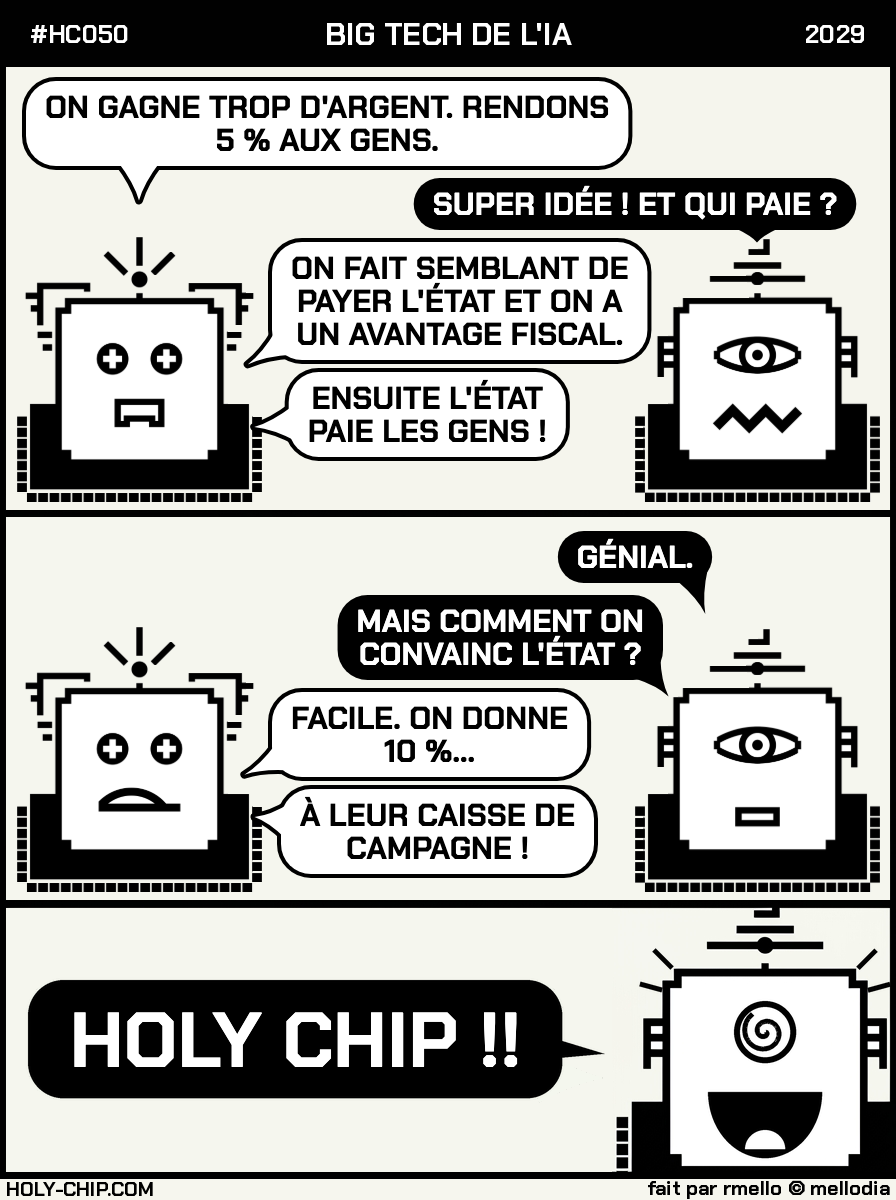
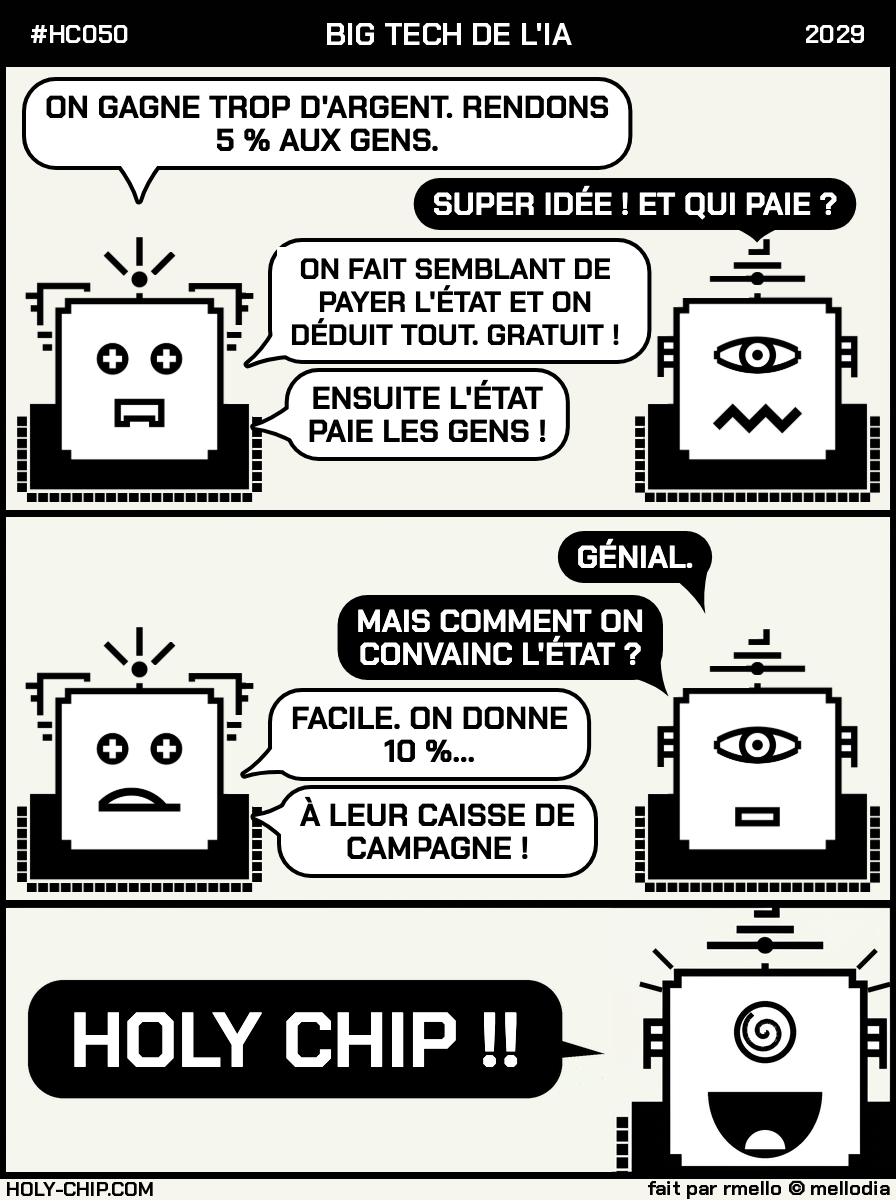
HC050 FR: 'On fait semblant de payer l'Etat et on deduit tout. Gratuit !'

Changed region(s): [[0.3125, 0.2158, 0.7188, 0.3083]]

diff --git a/origins/HC050.html b/origins/HC050.html
@@ -614,7 +614,7 @@
           </div>
           <div class="dialog-line">
             <span class="dialog-speaker-label">Chip 0</span>
-            <span class="dialog-text">ON FAIT SEMBLANT DE PAYER L'ÉTAT ET ON A UN AVANTAGE FISCAL.</span>
+            <span class="dialog-text">ON FAIT SEMBLANT DE PAYER L'ÉTAT ET ON DÉDUIT TOUT. GRATUIT !</span>
           </div>
           <div class="dialog-line">
             <span class="dialog-speaker-label">Chip 0</span>
